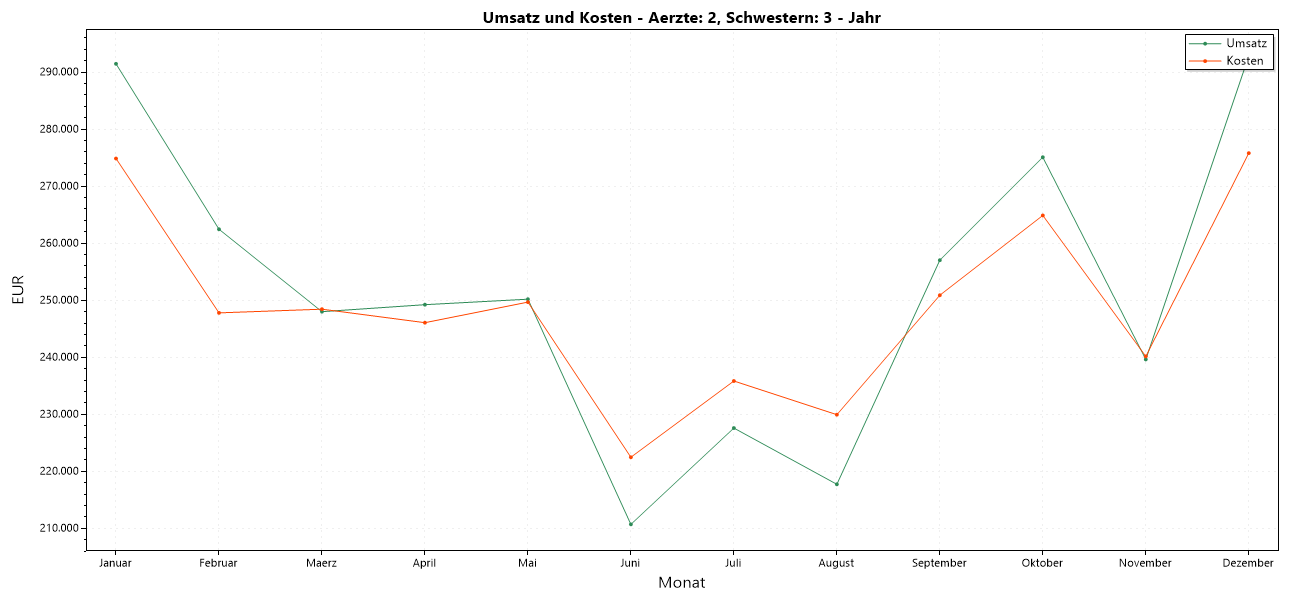
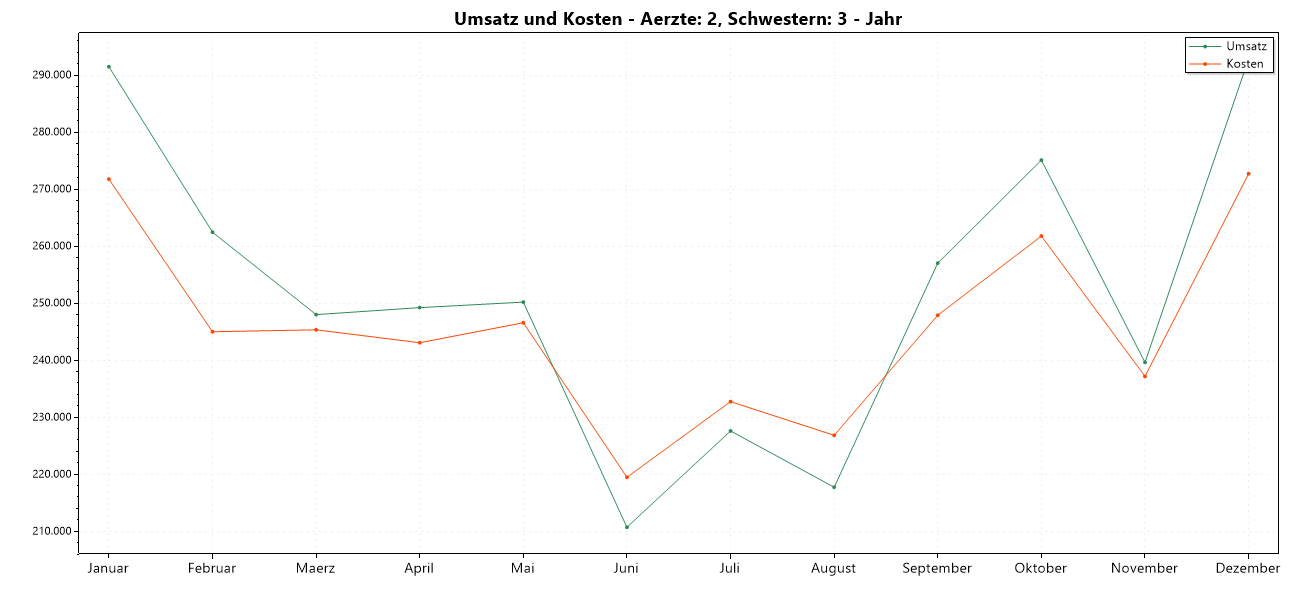
edit finanz

diff --git a/simSharpSimulation/Kosten/FinanzWpfFenster.cs b/simSharpSimulation/Kosten/FinanzWpfFenster.cs
@@ -13,6 +13,8 @@ internal sealed class FinanzWpfFenster : Window
     // Diese Steuerelemente werden benoetigt, um Eingaben zu lesen und Ergebnisse anzuzeigen.
     private readonly TextBox aerzteTextBox;
     private readonly TextBox schwesternTextBox;
+    private readonly TextBox rezeptionTextBox;
+    private readonly TextBox behandlungsraeumeTextBox;
     private readonly ComboBox zeitraumComboBox;
     private readonly TextBox ergebnisTextBox;
     private readonly Image finanzenImage;
@@ -41,6 +43,14 @@ internal sealed class FinanzWpfFenster : Window
         eingabeGrid.ColumnDefinitions.Add(new ColumnDefinition { Width = GridLength.Auto });
         eingabeGrid.ColumnDefinitions.Add(new ColumnDefinition { Width = new GridLength(120) });
         eingabeGrid.ColumnDefinitions.Add(new ColumnDefinition { Width = new GridLength(20) });
+        eingabeGrid.ColumnDefinitions.Add(new ColumnDefinition { Width = GridLength.Auto });
+        eingabeGrid.ColumnDefinitions.Add(new ColumnDefinition { Width = new GridLength(120) });
+        eingabeGrid.ColumnDefinitions.Add(new ColumnDefinition { Width = new GridLength(20) });
+        // Rezeption
+        eingabeGrid.ColumnDefinitions.Add(new ColumnDefinition { Width = GridLength.Auto });
+        eingabeGrid.ColumnDefinitions.Add(new ColumnDefinition { Width = new GridLength(120) });
+        eingabeGrid.ColumnDefinitions.Add(new ColumnDefinition { Width = new GridLength(20) });
+        // Behandlungsraeume
         eingabeGrid.ColumnDefinitions.Add(new ColumnDefinition { Width = GridLength.Auto });
         eingabeGrid.ColumnDefinitions.Add(new ColumnDefinition { Width = new GridLength(120) });
         eingabeGrid.ColumnDefinitions.Add(new ColumnDefinition { Width = new GridLength(20) });
@@ -73,8 +83,34 @@ internal sealed class FinanzWpfFenster : Window
         Grid.SetColumn(schwesternTextBox, 4);
         eingabeGrid.Children.Add(schwesternTextBox);
 
+        // Rezeption
+        Label rezeptionLabel = new() { Content = "Anzahl Rezeption:", VerticalAlignment = VerticalAlignment.Center };
+        Grid.SetColumn(rezeptionLabel, 6);
+        eingabeGrid.Children.Add(rezeptionLabel);
+
+        rezeptionTextBox = new TextBox
+        {
+            Text = RezeptionKonfiguration.ANZAHL_REZEPTIONISTEN.ToString(CultureInfo.InvariantCulture),
+            VerticalContentAlignment = VerticalAlignment.Center
+        };
+        Grid.SetColumn(rezeptionTextBox, 7);
+        eingabeGrid.Children.Add(rezeptionTextBox);
+
+        // Behandlungsraeume
+        Label behandlungsLabel = new() { Content = "Anzahl Behandlungszimmer:", VerticalAlignment = VerticalAlignment.Center };
+        Grid.SetColumn(behandlungsLabel, 9);
+        eingabeGrid.Children.Add(behandlungsLabel);
+
+        behandlungsraeumeTextBox = new TextBox
+        {
+            Text = KonfigurationJsonExport.Finanzen.Fixkosten.AnzahlBehandlungsraeume.ToString(CultureInfo.InvariantCulture),
+            VerticalContentAlignment = VerticalAlignment.Center
+        };
+        Grid.SetColumn(behandlungsraeumeTextBox, 10);
+        eingabeGrid.Children.Add(behandlungsraeumeTextBox);
+
         Label zeitraumLabel = new() { Content = "Zeitraum:", VerticalAlignment = VerticalAlignment.Center };
-        Grid.SetColumn(zeitraumLabel, 6);
+        Grid.SetColumn(zeitraumLabel, 12);
         eingabeGrid.Children.Add(zeitraumLabel);
 
         zeitraumComboBox = new ComboBox
@@ -84,7 +120,7 @@ internal sealed class FinanzWpfFenster : Window
             VerticalContentAlignment = VerticalAlignment.Center,
             IsEditable = false
         };
-        Grid.SetColumn(zeitraumComboBox, 7);
+        Grid.SetColumn(zeitraumComboBox, 13);
         eingabeGrid.Children.Add(zeitraumComboBox);
 
         Button startenButton = new()
@@ -96,7 +132,7 @@ internal sealed class FinanzWpfFenster : Window
             FontWeight = FontWeights.SemiBold
         };
         startenButton.Click += SimulationStarten_Click;
-        Grid.SetColumn(startenButton, 9);
+        Grid.SetColumn(startenButton, 15);
         eingabeGrid.Children.Add(startenButton);
 
         Grid.SetRow(eingabeGrid, 0);
@@ -173,6 +209,17 @@ internal sealed class FinanzWpfFenster : Window
             if (!TryParseInt(schwesternTextBox.Text, 1, 80, out int anzahlSchwestern, out string schwesternFehler))
                 throw new InvalidOperationException(schwesternFehler);
 
+            // Rezeption und Anzahl Behandlungszimmer aus UI einlesen
+            if (!TryParseInt(rezeptionTextBox.Text, 0, 80, out int anzahlRezeptionisten, out string rezeptionFehler))
+                throw new InvalidOperationException(rezeptionFehler);
+
+            if (!TryParseInt(behandlungsraeumeTextBox.Text, 1, 100, out int anzahlBehandlungsraeume, out string raeumeFehler))
+                throw new InvalidOperationException(raeumeFehler);
+
+            // Setze globale Konfigurationen, damit Simulation und Auswertung die Werte verwenden
+            RezeptionKonfiguration.ANZAHL_REZEPTIONISTEN = anzahlRezeptionisten;
+            KonfigurationJsonExport.Finanzen.Fixkosten.AnzahlBehandlungsraeume = anzahlBehandlungsraeume;
+
             string zeitraum = zeitraumComboBox.SelectedItem?.ToString() ?? "Jahr";
 
             statusTextBlock.Text = "Simulation laeuft...";
@@ -221,6 +268,7 @@ internal sealed class FinanzWpfFenster : Window
         {
             Text = titel,
             FontWeight = FontWeights.SemiBold,
+            FontSize = 18,
             Margin = new Thickness(8, 6, 8, 4)
         };
         DockPanel.SetDock(header, Dock.Top);
@@ -276,7 +324,8 @@ internal sealed class FinanzWpfFenster : Window
         sb.AppendLine($"Aerzte: {FinanzVisualisierung.FormatEuro(FinanzRechner.BerechneArztlohn(ArztKonfiguration.ANZAHL_AERZTE, (int)Math.Round(ergebnis.Tagespunkte.Average(t => t.BehandeltePatienten))))}");
         sb.AppendLine($"Schwestern: {FinanzVisualisierung.FormatEuro(FinanzRechner.BerechneSchwesterlohn(SchwesterKonfiguration.ANZAHL_SCHWESTERN))}");
         sb.AppendLine($"Rezeption: {FinanzVisualisierung.FormatEuro(FinanzRechner.BerechneRezeptionlohn(RezeptionKonfiguration.ANZAHL_REZEPTIONISTEN))}");
-        sb.AppendLine($"Fixkosten: {FinanzVisualisierung.FormatEuro(KonfigurationJsonExport.Finanzen.Fixkosten.MietkostenProTag + KonfigurationJsonExport.Finanzen.Fixkosten.WeitereFixkostenProTag)}");
+        double mietkostenProTag = KonfigurationJsonExport.MietkostenProTag;
+        sb.AppendLine($"Fixkosten: {FinanzVisualisierung.FormatEuro(mietkostenProTag + KonfigurationJsonExport.Finanzen.Fixkosten.WeitereFixkostenProTag)}");
         sb.AppendLine();
         sb.AppendLine("Dateien");
         sb.AppendLine($"- Finanzen: {finanzenPfad}");

diff --git a/simSharpSimulation/Kosten/FinanzRechner.cs b/simSharpSimulation/Kosten/FinanzRechner.cs
@@ -79,17 +79,17 @@ public static class FinanzRechner
         int langPatienten = verteilung.GetValueOrDefault(PatientenTyp.Lang, 0);
 
         // Ermittle Behandlungskosten pro Typ aus der Patienten-Konfiguration
-        double kurzKostenPro = PatientenKonfiguration.TYPEN_VERTEILUNG.First(t => t.Typ == PatientenTyp.Kurz).Behandlungskosten;
-        double mittelKostenPro = PatientenKonfiguration.TYPEN_VERTEILUNG.First(t => t.Typ == PatientenTyp.Mittel).Behandlungskosten;
-        double langKostenPro = PatientenKonfiguration.TYPEN_VERTEILUNG.First(t => t.Typ == PatientenTyp.Lang).Behandlungskosten;
+        double TypKurzKosten = PatientenKonfiguration.TYPEN_VERTEILUNG.First(t => t.Typ == PatientenTyp.Kurz).Behandlungskosten;
+        double TypMittelKosten = PatientenKonfiguration.TYPEN_VERTEILUNG.First(t => t.Typ == PatientenTyp.Mittel).Behandlungskosten;
+        double TypLangKosten = PatientenKonfiguration.TYPEN_VERTEILUNG.First(t => t.Typ == PatientenTyp.Lang).Behandlungskosten;
 
         return new Behandlungsmix(
             kurzPatienten,
             mittelPatienten,
             langPatienten,
-            kurzPatienten * kurzKostenPro,
-            mittelPatienten * mittelKostenPro,
-            langPatienten * langKostenPro);
+            kurzPatienten * TypKurzKosten,
+            mittelPatienten * TypMittelKosten,
+            langPatienten * TypLangKosten);
     }
 
     public static Tageskosten BerechneTageskosten(int anzahlAerzte, int behandeltePatienten)
@@ -98,7 +98,8 @@ public static class FinanzRechner
         double arztlohn = BerechneArztlohn(anzahlAerzte, behandeltePatienten);
         double schwesterlohn = BerechneSchwesterlohn(SchwesterKonfiguration.ANZAHL_SCHWESTERN);
         double rezeptionlohn = BerechneRezeptionlohn(RezeptionKonfiguration.ANZAHL_REZEPTIONISTEN);
-        double fixkosten = Finanzen.Fixkosten.MietkostenProTag + Finanzen.Fixkosten.WeitereFixkostenProTag;
+        double mietkostenProTag = KonfigurationJsonExport.MietkostenProTag;
+        double fixkosten = mietkostenProTag + Finanzen.Fixkosten.WeitereFixkostenProTag;
         Behandlungsmix behandlungsmix = BerechneBehandlungsmix(behandeltePatienten);
         double personalGesamt = arztlohn + schwesterlohn + rezeptionlohn;
         double gesamtkosten = personalGesamt + fixkosten + behandlungsmix.Gesamtkosten;

diff --git a/simSharpSimulation/Kosten/FinanzVisualisierung.cs b/simSharpSimulation/Kosten/FinanzVisualisierung.cs
@@ -257,10 +257,10 @@ internal static class FinanzVisualisierung
         kostenLinie.Label = "Kosten";
 
         plot.XTicks(xs, ergebnis.Achsenwerte.ToArray());
-        plot.XAxis.TickLabelStyle(rotation: ergebnis.Achsenwerte.Count > 20 ? 45 : 0);
-        plot.YLabel("EUR");
-        plot.XLabel(string.Equals(ergebnis.Zeitraum, "Jahr", StringComparison.OrdinalIgnoreCase) ? "Monat" : "Tag");
-        plot.Title($"Umsatz und Kosten - Aerzte: {anzahlAerzte}, Schwestern: {anzahlSchwestern} - {ergebnis.Zeitraum}");
+        plot.XAxis.TickLabelStyle(fontSize: 14, rotation: ergebnis.Achsenwerte.Count > 20 ? 45 : 0);
+        plot.XAxis.LabelStyle(fontSize: 16);
+        plot.YAxis.LabelStyle(fontSize: 16);
+        plot.Title($"Umsatz und Kosten - Aerzte: {anzahlAerzte}, Schwestern: {anzahlSchwestern} - {ergebnis.Zeitraum}", size: 18);
         plot.Legend(location: Alignment.UpperRight);
         plot.Grid(enable: true, lineStyle: LineStyle.Dot);
         plot.SaveFig(outputPfad);
@@ -292,15 +292,15 @@ internal static class FinanzVisualisierung
         nullLinie.LineStyle = LineStyle.Dash;
 
         plot.XTicks(xs, ergebnis.Achsenwerte.ToArray());
-        plot.XAxis.TickLabelStyle(rotation: ergebnis.Achsenwerte.Count > 20 ? 45 : 0);
-        plot.YLabel("Gewinn in EUR");
-        plot.XLabel(string.Equals(ergebnis.Zeitraum, "Jahr", StringComparison.OrdinalIgnoreCase) ? "Monat" : "Tag");
+        plot.XAxis.TickLabelStyle(fontSize: 14, rotation: ergebnis.Achsenwerte.Count > 20 ? 45 : 0);
+        plot.XAxis.LabelStyle(fontSize: 16);
+        plot.YAxis.LabelStyle(fontSize: 16);
 
         string titel = string.Equals(ergebnis.Zeitraum, "Jahr", StringComparison.OrdinalIgnoreCase)
             ? "Gewinn pro Monat"
             : "Gewinn pro Tag";
 
-        plot.Title($"{titel} - Aerzte: {anzahlAerzte}, Schwestern: {anzahlSchwestern} - {ergebnis.Zeitraum}");
+        plot.Title($"{titel} - Aerzte: {anzahlAerzte}, Schwestern: {anzahlSchwestern} - {ergebnis.Zeitraum}", size: 18);
         plot.Legend(location: Alignment.UpperRight);
         plot.Grid(enable: true, lineStyle: LineStyle.Dot);
         plot.SaveFig(outputPfad);

diff --git a/simSharpSimulation/Ressourcen/KonfigurationJsonExport.cs b/simSharpSimulation/Ressourcen/KonfigurationJsonExport.cs
@@ -19,6 +19,9 @@ namespace simSharpSimulation
 
         public static FinanzKonfigurationJson Finanzen { get; private set; } = new();
 
+        // Hilfszugang: berechnete Mietkosten pro Tag (Anzahl * Kosten pro Behandlungsraum).
+        public static double MietkostenProTag => Finanzen.Fixkosten.MietkostenProBehandlungsraumProTag * Math.Max(Finanzen.Fixkosten.AnzahlBehandlungsraeume, 0);
+
         public static void LadeAlle()
         {
             string zielOrdner = ErmittleRessourcenOrdner();
@@ -261,7 +264,8 @@ namespace simSharpSimulation
 
     internal sealed class FixkostenJson
     {
-        public double MietkostenProTag { get; set; } = 350.0;
+        public double MietkostenProBehandlungsraumProTag { get; set; } = 50.0;
+        public int AnzahlBehandlungsraeume { get; set; } = 5;
         public double WeitereFixkostenProTag { get; set; } = 450.0;
     }
 
